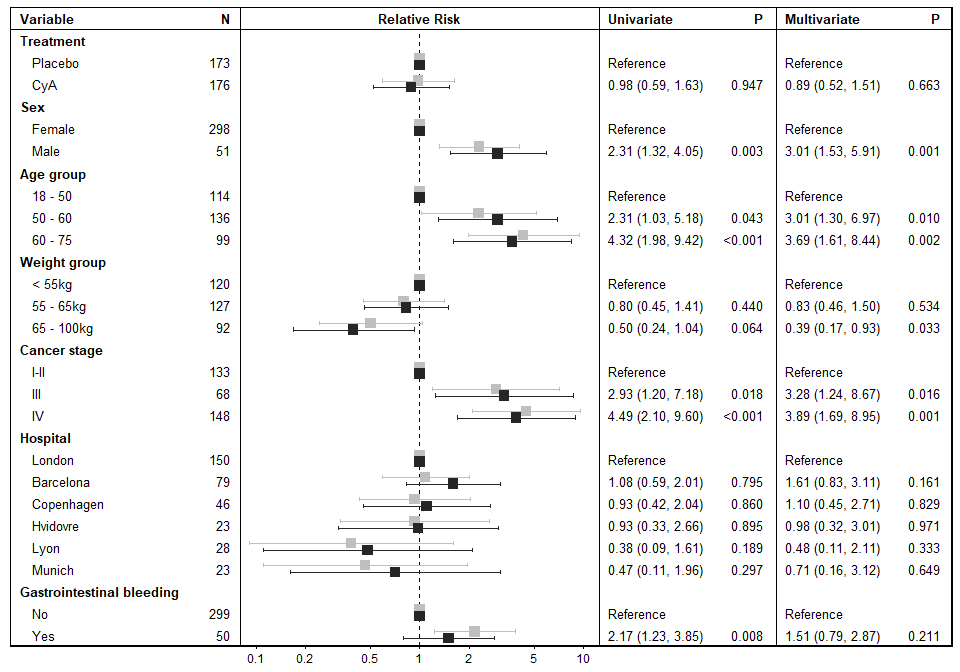
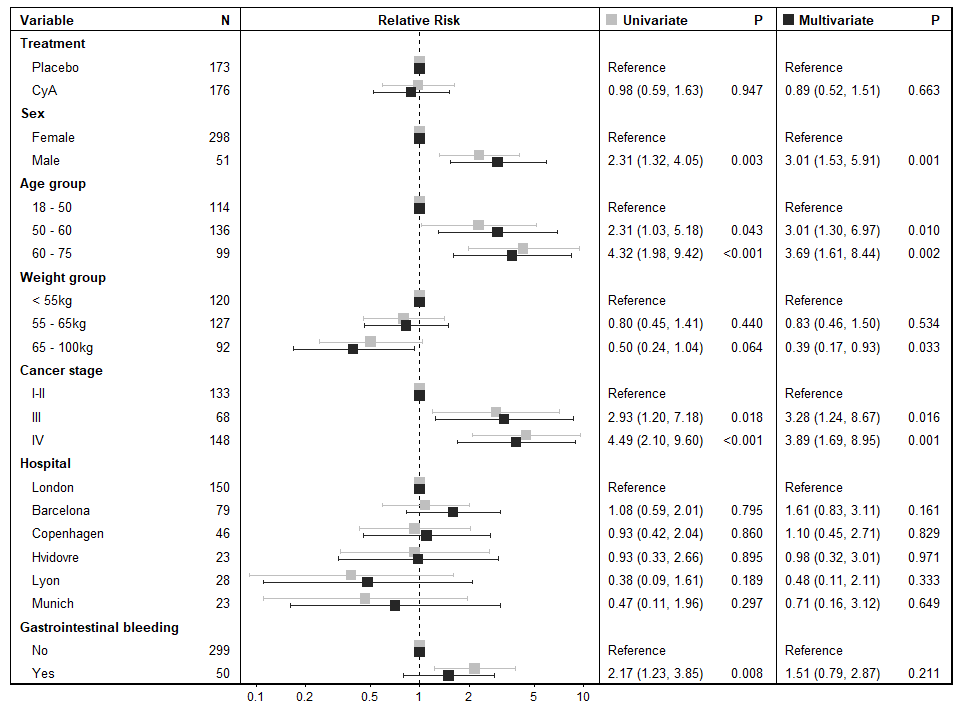
upd

diff --git a/README.md b/README.md
@@ -29,7 +29,7 @@ library(rlang)
 library(labelled)
 library(survival)
 library(pec)
-
+library(knitr)
 library(multiforest)
 
 source("R/forestmodels_new_test.r")
@@ -71,15 +71,17 @@ pb <- Pbc3 %>%
   mutate(unit  = fct_relevel(unit, "London"),
          tment = fct_relevel(tment, "Placebo"))
 
-head(pb)
-#>   dead5yr tment    sex     age     weight stage   unit gibleed
-#> 1    TRUE   CyA   Male 60 - 75 65 - 100kg    IV London      No
-#> 2   FALSE   CyA Female 18 - 50  55 - 65kg   III London      No
-#> 3   FALSE   CyA Female 18 - 50 65 - 100kg   III London      No
-#> 4    TRUE   CyA Female 60 - 75     < 55kg    IV London     Yes
-#> 5    TRUE   CyA Female 60 - 75     < 55kg    IV London      No
-#> 6    TRUE   CyA   Male 60 - 75  55 - 65kg    IV London      No
+kable(head(pb))
 ```
+
+| dead5yr | tment | sex    | age     | weight     | stage | unit   | gibleed |
+|:--------|:------|:-------|:--------|:-----------|:------|:-------|:--------|
+| TRUE    | CyA   | Male   | 60 - 75 | 65 - 100kg | IV    | London | No      |
+| FALSE   | CyA   | Female | 18 - 50 | 55 - 65kg  | III   | London | No      |
+| FALSE   | CyA   | Female | 18 - 50 | 65 - 100kg | III   | London | No      |
+| TRUE    | CyA   | Female | 60 - 75 | &lt; 55kg  | IV    | London | Yes     |
+| TRUE    | CyA   | Female | 60 - 75 | &lt; 55kg  | IV    | London | No      |
+| TRUE    | CyA   | Male   | 60 - 75 | 55 - 65kg  | IV    | London | No      |
 
 Before plotting we can make headers a bit nicer by applying a label from
 the package `labelled` to plot we use the function `mforestmodel` where
@@ -109,9 +111,9 @@ like the labs argument.
 ``` r
 mforestmodel(pb, dependent="dead5yr", lim=c(-2.4,2.4), 
              pala="#1f78b4", palb="#a6cee3", 
-             legend_position = c(0.55,0.93), 
+             #legend_position = c(0.55,0.93), 
              spaces = c(0.015,0.22,0.2,0.005,0.2,0.02),
-             header = c("Group","Patients","RR of death","Univariate (light)","P","Multivariate (dark)","P")) + 
+             header = c("Group","Patients","RR of death","Univariate","P","Multivariate","P")) + 
   labs(title="Relative risk of death within 3 years of diagnosis",
        subtitle="PBC3 - randomized clinical trial between 1 Jan. 1983 and 1 Jan. 1987 ",
        caption="Source: PCB3 from R package pec")
